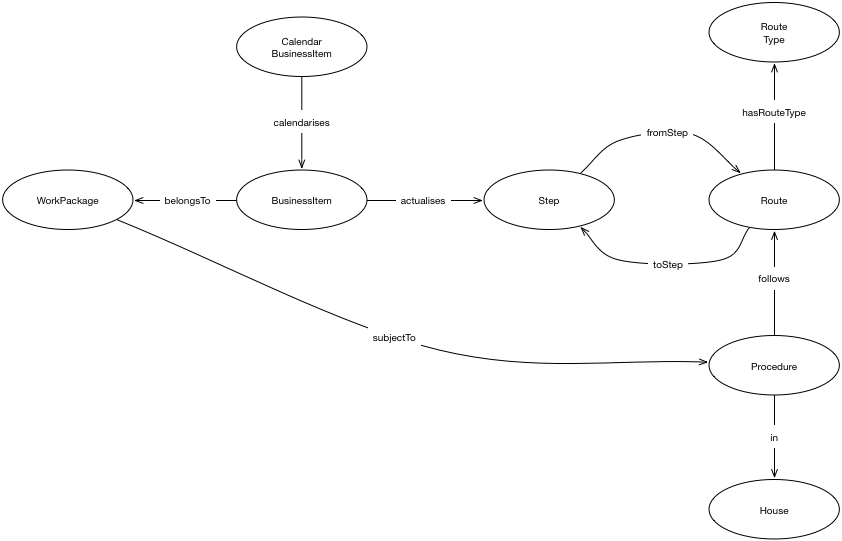
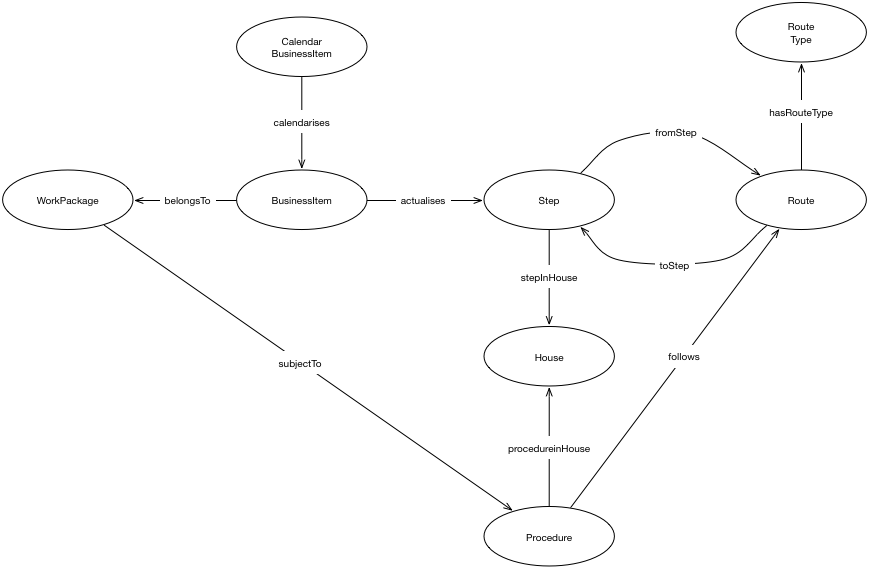
linked steps to houses

diff --git a/procedure/procedure-ontology.html b/procedure/procedure-ontology.html
@@ -9,7 +9,6 @@
 
 
 
-
 		<link href="https://ukparliament.github.io/ontologies/assets/css.css" rel="stylesheet" type="text/css" />
 	</head>
 		<body>
@@ -46,6 +45,18 @@
 
 
 
-<div id="classes"><h2>Classes</h2><ul class="hlist"><li><a href="#d4e162" title="http://parliament.uk/ontologies/procedure/BusinessItem">BusinessItem</a></li><li><a href="#d4e177" title="http://parliament.uk/ontologies/procedure/CalendarBusinessItem">CalendarBusinessItem</a></li><li><a href="#d4e188" title="http://parliament.uk/ontologies/procedure/House">House</a></li><li><a href="#d4e199" title="http://parliament.uk/ontologies/procedure/Procedure">Procedure</a></li><li><a href="#d4e211" title="http://parliament.uk/ontologies/procedure/Route">Route</a></li><li><a href="#d4e222" title="http://parliament.uk/ontologies/procedure/RouteType">RouteType</a></li><li><a href="#d4e233" title="http://parliament.uk/ontologies/procedure/Step">Step</a></li><li><a href="#d4e245" title="http://parliament.uk/ontologies/procedure/WorkPackage">WorkPackage</a></li></ul><div id="d4e162" class="entity"><a name="http://parliament.uk/ontologies/procedure/BusinessItem"></a><h3>BusinessItem<sup title="class" class="type-c">c</sup><span class="backlink"> back to <a href="#toc">ToC</a> or <a href="#classes">Class ToC</a></span></h3><p><strong>IRI:</strong> http://parliament.uk/ontologies/procedure/BusinessItem</p><div class="comment"><span class="markdown">An item of parliamentary business.</span></div><dl class="description"><dt>is in domain of</dt><dd><a href="#d4e22" title="http://parliament.uk/ontologies/procedure/actualises">actualises</a><sup title="object property" class="type-op">op</sup>, <a href="#d4e38" title="http://parliament.uk/ontologies/procedure/belongsTo">belongsTo</a><sup title="object property" class="type-op">op</sup></dd><dt>is in range of</dt><dd><a href="#d4e53" title="http://parliament.uk/ontologies/procedure/calendarises">calendarises</a><sup title="object property" class="type-op">op</sup></dd></dl></div><div id="d4e177" class="entity"><a name="http://parliament.uk/ontologies/procedure/CalendarBusinessItem"></a><h3>CalendarBusinessItem<sup title="class" class="type-c">c</sup><span class="backlink"> back to <a href="#toc">ToC</a> or <a href="#classes">Class ToC</a></span></h3><p><strong>IRI:</strong> http://parliament.uk/ontologies/procedure/CalendarBusinessItem</p><div class="comment"><span class="markdown">Handles the scheduling of a parliamentary business item once it has been timetabled into a calendar. The calendar business item only handles the timetabling of day, time and location and does not describe the nature of the business item.</span></div><dl class="description"><dt>is in domain of</dt><dd><a href="#d4e53" title="http://parliament.uk/ontologies/procedure/calendarises">calendarises</a><sup title="object property" class="type-op">op</sup></dd></dl></div><div id="d4e188" class="entity"><a name="http://parliament.uk/ontologies/procedure/House"></a><h3>House<sup title="class" class="type-c">c</sup><span class="backlink"> back to <a href="#toc">ToC</a> or <a href="#classes">Class ToC</a></span></h3><p><strong>IRI:</strong> http://parliament.uk/ontologies/procedure/House</p><div class="comment"><span class="markdown">A parliamentary House e.g. the House of Lords.</span></div><dl class="description"><dt>is in range of</dt><dd><a href="#d4e114" title="http://parliament.uk/ontologies/procedure/in">in</a><sup title="object property" class="type-op">op</sup></dd></dl></div><div id="d4e199" class="entity"><a name="http://parliament.uk/ontologies/procedure/Procedure"></a><h3>Procedure<sup title="class" class="type-c">c</sup><span class="backlink"> back to <a href="#toc">ToC</a> or <a href="#classes">Class ToC</a></span></h3><p><strong>IRI:</strong> http://parliament.uk/ontologies/procedure/Procedure</p><div class="comment"><span class="markdown">A parliamentary procedure in a particular House or Houses. An example might be the passage of a made affirmative statutory instrument in both Houses. Note that some procedures are House specific, but can involve things like a joint committee that cuts across the two Houses. In the latter case we consider it to be a single procedure.</span></div><dl class="description"><dt>is in domain of</dt><dd><a href="#d4e68" title="http://parliament.uk/ontologies/procedure/follows">follows</a><sup title="object property" class="type-op">op</sup>, <a href="#d4e114" title="http://parliament.uk/ontologies/procedure/in">in</a><sup title="object property" class="type-op">op</sup></dd><dt>is in range of</dt><dd><a href="#d4e130" title="http://parliament.uk/ontologies/procedure/subjectTo">subjectTo</a><sup title="object property" class="type-op">op</sup></dd></dl></div><div id="d4e211" class="entity"><a name="http://parliament.uk/ontologies/procedure/Route"></a><h3>Route<sup title="class" class="type-c">c</sup><span class="backlink"> back to <a href="#toc">ToC</a> or <a href="#classes">Class ToC</a></span></h3><p><strong>IRI:</strong> http://parliament.uk/ontologies/procedure/Route</p><div class="comment"><span class="markdown">Ties a procedural step or steps to the subsequent step, according to the RouteType. Note that routes are time bound (borrowing startOn and endOn from the Core Ontology). This allows routes to change over time and adapt to changes in procedure. A route is activated once the business item(s) which actualise the preceding steps are completed. This can be taken to mean the step is 'completed'. Note that the RouteType 'precludes' can route a completed step to the same step. This has the effect of precluding any more instances of that step in the procedure e.g. in the made affirmative statutory instrument procedure the step 'cleared by the Joint Committee on Statutory Instruments' can happen only once. In other words, the actualisation of this step as a business item precludes any other instance of that step.</span></div><dl class="description"><dt>is in domain of</dt><dd><a href="#d4e84" title="http://parliament.uk/ontologies/procedure/fromStep">fromStep</a><sup title="object property" class="type-op">op</sup>, <a href="#d4e99" title="http://parliament.uk/ontologies/procedure/hasRouteType">hasRouteType</a><sup title="object property" class="type-op">op</sup>, <a href="#d4e145" title="http://parliament.uk/ontologies/procedure/toStep">toStep</a><sup title="object property" class="type-op">op</sup></dd><dt>is in range of</dt><dd><a href="#d4e68" title="http://parliament.uk/ontologies/procedure/follows">follows</a><sup title="object property" class="type-op">op</sup></dd></dl></div><div id="d4e222" class="entity"><a name="http://parliament.uk/ontologies/procedure/RouteType"></a><h3>RouteType<sup title="class" class="type-c">c</sup><span class="backlink"> back to <a href="#toc">ToC</a> or <a href="#classes">Class ToC</a></span></h3><p><strong>IRI:</strong> http://parliament.uk/ontologies/procedure/RouteType</p><div class="comment"><span class="markdown">Route types are: causes, allows and precludes. A route of type 'causes' relates the route to a following step where completion of the preceding step(s) directly causes the route to trigger the next step i.e. the next step is inevitable. A route of type 'allows' relates the route to a following step where completion of the preceding step(s) allows the next step to happen, but does not cause it to happen i.e. the next step might happen but is not inevitable. A route of type 'precludes' relates a route to a step where completion of the preceding step(s) precludes that step from happening i.e. the next step can no longer happen.</span></div><dl class="description"><dt>is in range of</dt><dd><a href="#d4e99" title="http://parliament.uk/ontologies/procedure/hasRouteType">hasRouteType</a><sup title="object property" class="type-op">op</sup></dd></dl></div><div id="d4e233" class="entity"><a name="http://parliament.uk/ontologies/procedure/Step"></a><h3>Step<sup title="class" class="type-c">c</sup><span class="backlink"> back to <a href="#toc">ToC</a> or <a href="#classes">Class ToC</a></span></h3><p><strong>IRI:</strong> http://parliament.uk/ontologies/procedure/Step</p><div class="comment"><span class="markdown">A step in a procedure e.g. consideration of a statutory instrument by the Joint Committee on Statutory Instruments. Steps may not be unique to a specific procedure e.g. the consideration described in the previous example happens in both the affirmative and negative statutory instrument procedure.</span></div><dl class="description"><dt>is in range of</dt><dd><a href="#d4e22" title="http://parliament.uk/ontologies/procedure/actualises">actualises</a><sup title="object property" class="type-op">op</sup>, <a href="#d4e84" title="http://parliament.uk/ontologies/procedure/fromStep">fromStep</a><sup title="object property" class="type-op">op</sup>, <a href="#d4e145" title="http://parliament.uk/ontologies/procedure/toStep">toStep</a><sup title="object property" class="type-op">op</sup></dd></dl></div><div id="d4e245" class="entity"><a name="http://parliament.uk/ontologies/procedure/WorkPackage"></a><h3>WorkPackage<sup title="class" class="type-c">c</sup><span class="backlink"> back to <a href="#toc">ToC</a> or <a href="#classes">Class ToC</a></span></h3><p><strong>IRI:</strong> http://parliament.uk/ontologies/procedure/WorkPackage</p><div class="comment"><span class="markdown">A package of work grouping together many individual business items e.g. the passage of a specific statutory instrument, or the passage of a specific public bill etc. Whereas a procedure (and its accompanying routes and steps) describes the process, the work package handles the application of that process for a specific instance.</span></div><dl class="description"><dt>is in domain of</dt><dd><a href="#d4e130" title="http://parliament.uk/ontologies/procedure/subjectTo">subjectTo</a><sup title="object property" class="type-op">op</sup></dd><dt>is in range of</dt><dd><a href="#d4e38" title="http://parliament.uk/ontologies/procedure/belongsTo">belongsTo</a><sup title="object property" class="type-op">op</sup></dd></dl></div></div><div id="objectproperties"><h2>Object Properties</h2><ul class="hlist"><li><a href="#d4e22" title="http://parliament.uk/ontologies/procedure/actualises">actualises</a></li><li><a href="#d4e38" title="http://parliament.uk/ontologies/procedure/belongsTo">belongsTo</a></li><li><a href="#d4e53" title="http://parliament.uk/ontologies/procedure/calendarises">calendarises</a></li><li><a href="#d4e68" title="http://parliament.uk/ontologies/procedure/follows">follows</a></li><li><a href="#d4e84" title="http://parliament.uk/ontologies/procedure/fromStep">fromStep</a></li><li><a href="#d4e99" title="http://parliament.uk/ontologies/procedure/hasRouteType">hasRouteType</a></li><li><a href="#d4e114" title="http://parliament.uk/ontologies/procedure/in">in</a></li><li><a href="#d4e130" title="http://parliament.uk/ontologies/procedure/subjectTo">subjectTo</a></li><li><a href="#d4e145" title="http://parliament.uk/ontologies/procedure/toStep">toStep</a></li></ul><div id="d4e22" class="entity"><a name="http://parliament.uk/ontologies/procedure/actualises"></a><h3>actualises<sup title="object property" class="type-op">op</sup><span class="backlink"> back to <a href="#toc">ToC</a> or <a href="#objectproperties">Object Property ToC</a></span></h3><p><strong>IRI:</strong> http://parliament.uk/ontologies/procedure/actualises</p><div class="comment"><span class="markdown">Relates a business item to a step in a procedure (via a route) e.g. relates the second reading of a specific public bill to the corresponding (conceptual) step in the procedure. Note that whilst a step might be actualised by several business items (in different work packages), a business item might actualise one or several steps e.g. there might be a calendarised business item on the order paper that includes a debate on a number of motions. This would actualise steps relating each of those motions.</span></div><div class="description"><dl><dt>has domain</dt><dd><a href="#d4e162" title="http://parliament.uk/ontologies/procedure/BusinessItem">BusinessItem</a><sup title="class" class="type-c">c</sup></dd><dt>has range</dt><dd><a href="#d4e233" title="http://parliament.uk/ontologies/procedure/Step">Step</a><sup title="class" class="type-c">c</sup></dd></dl></div></div><div id="d4e38" class="entity"><a name="http://parliament.uk/ontologies/procedure/belongsTo"></a><h3>belongsTo<sup title="object property" class="type-op">op</sup><span class="backlink"> back to <a href="#toc">ToC</a> or <a href="#objectproperties">Object Property ToC</a></span></h3><p><strong>IRI:</strong> http://parliament.uk/ontologies/procedure/belongsTo</p><div class="comment"><span class="markdown">Relates an individual business item to the work package it is part of. Note that whilst a work package can contain many business items, a business item might relate to several work packages e.g. a meeting of the Joint Committee on Statutory Instruments might include business relating to many SI work packages with no distinct segmentation.</span></div><div class="description"><dl><dt>has domain</dt><dd><a href="#d4e162" title="http://parliament.uk/ontologies/procedure/BusinessItem">BusinessItem</a><sup title="class" class="type-c">c</sup></dd><dt>has range</dt><dd><a href="#d4e245" title="http://parliament.uk/ontologies/procedure/WorkPackage">WorkPackage</a><sup title="class" class="type-c">c</sup></dd></dl></div></div><div id="d4e53" class="entity"><a name="http://parliament.uk/ontologies/procedure/calendarises"></a><h3>calendarises<sup title="object property" class="type-op">op</sup><span class="backlink"> back to <a href="#toc">ToC</a> or <a href="#objectproperties">Object Property ToC</a></span></h3><p><strong>IRI:</strong> http://parliament.uk/ontologies/procedure/calendarises</p><div class="comment"><span class="markdown">Relates a calendar business item to a business item. Note that an individual business item can be calendarised into multiple calendar business items e.g. a second reading of a Bill might take place over several days.</span></div><div class="description"><dl><dt>has domain</dt><dd><a href="#d4e177" title="http://parliament.uk/ontologies/procedure/CalendarBusinessItem">CalendarBusinessItem</a><sup title="class" class="type-c">c</sup></dd><dt>has range</dt><dd><a href="#d4e162" title="http://parliament.uk/ontologies/procedure/BusinessItem">BusinessItem</a><sup title="class" class="type-c">c</sup></dd></dl></div></div><div id="d4e68" class="entity"><a name="http://parliament.uk/ontologies/procedure/follows"></a><h3>follows<sup title="object property" class="type-op">op</sup><span class="backlink"> back to <a href="#toc">ToC</a> or <a href="#objectproperties">Object Property ToC</a></span></h3><p><strong>IRI:</strong> http://parliament.uk/ontologies/procedure/follows</p><div class="comment"><span class="markdown">Relates a procedure to a route. A route can belong to only one procedure.</span></div><div class="description"><dl><dt>has domain</dt><dd><a href="#d4e199" title="http://parliament.uk/ontologies/procedure/Procedure">Procedure</a><sup title="class" class="type-c">c</sup></dd><dt>has range</dt><dd><a href="#d4e211" title="http://parliament.uk/ontologies/procedure/Route">Route</a><sup title="class" class="type-c">c</sup></dd></dl></div></div><div id="d4e84" class="entity"><a name="http://parliament.uk/ontologies/procedure/fromStep"></a><h3>fromStep<sup title="object property" class="type-op">op</sup><span class="backlink"> back to <a href="#toc">ToC</a> or <a href="#objectproperties">Object Property ToC</a></span></h3><p><strong>IRI:</strong> http://parliament.uk/ontologies/procedure/fromStep</p><div class="comment"><span class="markdown">Relates a route to a preceding step.</span></div><div class="description"><dl><dt>has domain</dt><dd><a href="#d4e211" title="http://parliament.uk/ontologies/procedure/Route">Route</a><sup title="class" class="type-c">c</sup></dd><dt>has range</dt><dd><a href="#d4e233" title="http://parliament.uk/ontologies/procedure/Step">Step</a><sup title="class" class="type-c">c</sup></dd></dl></div></div><div id="d4e99" class="entity"><a name="http://parliament.uk/ontologies/procedure/hasRouteType"></a><h3>hasRouteType<sup title="object property" class="type-op">op</sup><span class="backlink"> back to <a href="#toc">ToC</a> or <a href="#objectproperties">Object Property ToC</a></span></h3><p><strong>IRI:</strong> http://parliament.uk/ontologies/procedure/hasRouteType</p><div class="comment"><span class="markdown">Relates a route to a route type. A route can have one only type.</span></div><div class="description"><dl><dt>has domain</dt><dd><a href="#d4e211" title="http://parliament.uk/ontologies/procedure/Route">Route</a><sup title="class" class="type-c">c</sup></dd><dt>has range</dt><dd><a href="#d4e222" title="http://parliament.uk/ontologies/procedure/RouteType">RouteType</a><sup title="class" class="type-c">c</sup></dd></dl></div></div><div id="d4e114" class="entity"><a name="http://parliament.uk/ontologies/procedure/in"></a><h3>in<sup title="object property" class="type-op">op</sup><span class="backlink"> back to <a href="#toc">ToC</a> or <a href="#objectproperties">Object Property ToC</a></span></h3><p><strong>IRI:</strong> http://parliament.uk/ontologies/procedure/in</p><div class="comment"><span class="markdown">Relates a procedure to one or both Houses.</span></div><div class="description"><dl><dt>has domain</dt><dd><a href="#d4e199" title="http://parliament.uk/ontologies/procedure/Procedure">Procedure</a><sup title="class" class="type-c">c</sup></dd><dt>has range</dt><dd><a href="#d4e188" title="http://parliament.uk/ontologies/procedure/House">House</a><sup title="class" class="type-c">c</sup></dd></dl></div></div><div id="d4e130" class="entity"><a name="http://parliament.uk/ontologies/procedure/subjectTo"></a><h3>subjectTo<sup title="object property" class="type-op">op</sup><span class="backlink"> back to <a href="#toc">ToC</a> or <a href="#objectproperties">Object Property ToC</a></span></h3><p><strong>IRI:</strong> http://parliament.uk/ontologies/procedure/subjectTo</p><div class="comment"><span class="markdown">Relates a work package to the procedure it is subject to. A work package can only be subject to one procedure.</span></div><div class="description"><dl><dt>has domain</dt><dd><a href="#d4e245" title="http://parliament.uk/ontologies/procedure/WorkPackage">WorkPackage</a><sup title="class" class="type-c">c</sup></dd><dt>has range</dt><dd><a href="#d4e199" title="http://parliament.uk/ontologies/procedure/Procedure">Procedure</a><sup title="class" class="type-c">c</sup></dd></dl></div></div><div id="d4e145" class="entity"><a name="http://parliament.uk/ontologies/procedure/toStep"></a><h3>toStep<sup title="object property" class="type-op">op</sup><span class="backlink"> back to <a href="#toc">ToC</a> or <a href="#objectproperties">Object Property ToC</a></span></h3><p><strong>IRI:</strong> http://parliament.uk/ontologies/procedure/toStep</p><div class="comment"><span class="markdown">Relates a route to a potential following step. Note that the 'next' step might be precluded by the route type.</span></div><div class="description"><dl><dt>has domain</dt><dd><a href="#d4e211" title="http://parliament.uk/ontologies/procedure/Route">Route</a><sup title="class" class="type-c">c</sup></dd><dt>has range</dt><dd><a href="#d4e233" title="http://parliament.uk/ontologies/procedure/Step">Step</a><sup title="class" class="type-c">c</sup></dd></dl></div></div></div><div id="namespacedeclarations"><h2>Namespace Declarations <span class="backlink"> back to <a href="#toc">ToC</a></span></h2><dl><dt><em>default namespace</em></dt><dd>http://parliament.uk/ontologies/procedure/</dd><dt>owl</dt><dd>http://www.w3.org/2002/07/owl#</dd><dt>rdf</dt><dd>http://www.w3.org/1999/02/22-rdf-syntax-ns#</dd><dt>rdfs</dt><dd>http://www.w3.org/2000/01/rdf-schema#</dd><dt>terms</dt><dd>http://purl.org/dc/terms/</dd><dt>xsd</dt><dd>http://www.w3.org/2001/XMLSchema#</dd></dl></div><p class="endnote">This HTML document was obtained by processing the OWL ontology source code through <a href="http://www.essepuntato.it/lode">LODE</a>, <em>Live OWL Documentation Environment</em>, developed by <a href="http://www.essepuntato.it">Silvio Peroni</a>.</p></body></html>
+
+
+
+
+
+
+
+
+
+
+
+
+<div id="classes"><h2>Classes</h2><ul class="hlist"><li><a href="#d4e178" title="http://parliament.uk/ontologies/procedure/BusinessItem">BusinessItem</a></li><li><a href="#d4e192" title="http://parliament.uk/ontologies/procedure/CalendarBusinessItem">CalendarBusinessItem</a></li><li><a href="#d4e203" title="http://parliament.uk/ontologies/procedure/House">House</a></li><li><a href="#d4e215" title="http://parliament.uk/ontologies/procedure/Procedure">Procedure</a></li><li><a href="#d4e226" title="http://parliament.uk/ontologies/procedure/Route">Route</a></li><li><a href="#d4e237" title="http://parliament.uk/ontologies/procedure/RouteType">RouteType</a></li><li><a href="#d4e249" title="http://parliament.uk/ontologies/procedure/Step">Step</a></li><li><a href="#d4e260" title="http://parliament.uk/ontologies/procedure/WorkPackage">WorkPackage</a></li></ul><div id="d4e178" class="entity"><a name="http://parliament.uk/ontologies/procedure/BusinessItem"></a><h3>BusinessItem<sup title="class" class="type-c">c</sup><span class="backlink"> back to <a href="#toc">ToC</a> or <a href="#classes">Class ToC</a></span></h3><p><strong>IRI:</strong> http://parliament.uk/ontologies/procedure/BusinessItem</p><div class="comment"><span class="markdown">An item of parliamentary business.</span></div><dl class="description"><dt>is in domain of</dt><dd><a href="#d4e22" title="http://parliament.uk/ontologies/procedure/actualises">actualises</a><sup title="object property" class="type-op">op</sup>, <a href="#d4e38" title="http://parliament.uk/ontologies/procedure/belongsTo">belongsTo</a><sup title="object property" class="type-op">op</sup></dd><dt>is in range of</dt><dd><a href="#d4e53" title="http://parliament.uk/ontologies/procedure/calendarises">calendarises</a><sup title="object property" class="type-op">op</sup></dd></dl></div><div id="d4e192" class="entity"><a name="http://parliament.uk/ontologies/procedure/CalendarBusinessItem"></a><h3>CalendarBusinessItem<sup title="class" class="type-c">c</sup><span class="backlink"> back to <a href="#toc">ToC</a> or <a href="#classes">Class ToC</a></span></h3><p><strong>IRI:</strong> http://parliament.uk/ontologies/procedure/CalendarBusinessItem</p><div class="comment"><span class="markdown">Handles the scheduling of a parliamentary business item once it has been timetabled into a calendar. The calendar business item only handles the timetabling of day, time and location and does not describe the nature of the business item.</span></div><dl class="description"><dt>is in domain of</dt><dd><a href="#d4e53" title="http://parliament.uk/ontologies/procedure/calendarises">calendarises</a><sup title="object property" class="type-op">op</sup></dd></dl></div><div id="d4e203" class="entity"><a name="http://parliament.uk/ontologies/procedure/House"></a><h3>House<sup title="class" class="type-c">c</sup><span class="backlink"> back to <a href="#toc">ToC</a> or <a href="#classes">Class ToC</a></span></h3><p><strong>IRI:</strong> http://parliament.uk/ontologies/procedure/House</p><div class="comment"><span class="markdown">A parliamentary House e.g. the House of Lords.</span></div><dl class="description"><dt>is in range of</dt><dd><a href="#d4e114" title="http://parliament.uk/ontologies/procedure/procedureInHouse">procedureInHouse</a><sup title="object property" class="type-op">op</sup>, <a href="#d4e130" title="http://parliament.uk/ontologies/procedure/stepInHouse">stepInHouse</a><sup title="object property" class="type-op">op</sup></dd></dl></div><div id="d4e215" class="entity"><a name="http://parliament.uk/ontologies/procedure/Procedure"></a><h3>Procedure<sup title="class" class="type-c">c</sup><span class="backlink"> back to <a href="#toc">ToC</a> or <a href="#classes">Class ToC</a></span></h3><p><strong>IRI:</strong> http://parliament.uk/ontologies/procedure/Procedure</p><div class="comment"><span class="markdown">A parliamentary procedure in a particular House or Houses. An example might be the passage of a made affirmative statutory instrument in both Houses. Note that some procedures are House specific, but can involve things like a joint committee that cuts across the two Houses. In the latter case we consider it to be a single procedure.</span></div><dl class="description"><dt>is in domain of</dt><dd><a href="#d4e68" title="http://parliament.uk/ontologies/procedure/follows">follows</a><sup title="object property" class="type-op">op</sup>, <a href="#d4e114" title="http://parliament.uk/ontologies/procedure/procedureInHouse">procedureInHouse</a><sup title="object property" class="type-op">op</sup></dd><dt>is in range of</dt><dd><a href="#d4e145" title="http://parliament.uk/ontologies/procedure/subjectTo">subjectTo</a><sup title="object property" class="type-op">op</sup></dd></dl></div><div id="d4e226" class="entity"><a name="http://parliament.uk/ontologies/procedure/Route"></a><h3>Route<sup title="class" class="type-c">c</sup><span class="backlink"> back to <a href="#toc">ToC</a> or <a href="#classes">Class ToC</a></span></h3><p><strong>IRI:</strong> http://parliament.uk/ontologies/procedure/Route</p><div class="comment"><span class="markdown">Ties a procedural step or steps to the subsequent step, according to the RouteType. Note that routes are time bound (borrowing startOn and endOn from the Core Ontology). This allows routes to change over time and adapt to changes in procedure. A route is activated once the business item(s) which actualise the preceding steps are completed. This can be taken to mean the step is 'completed'. Note that the RouteType 'precludes' can route a completed step to the same step. This has the effect of precluding any more instances of that step in the procedure e.g. in the made affirmative statutory instrument procedure the step 'cleared by the Joint Committee on Statutory Instruments' can happen only once. In other words, the actualisation of this step as a business item precludes any other instance of that step.</span></div><dl class="description"><dt>is in domain of</dt><dd><a href="#d4e84" title="http://parliament.uk/ontologies/procedure/fromStep">fromStep</a><sup title="object property" class="type-op">op</sup>, <a href="#d4e99" title="http://parliament.uk/ontologies/procedure/hasRouteType">hasRouteType</a><sup title="object property" class="type-op">op</sup>, <a href="#d4e160" title="http://parliament.uk/ontologies/procedure/toStep">toStep</a><sup title="object property" class="type-op">op</sup></dd><dt>is in range of</dt><dd><a href="#d4e68" title="http://parliament.uk/ontologies/procedure/follows">follows</a><sup title="object property" class="type-op">op</sup></dd></dl></div><div id="d4e237" class="entity"><a name="http://parliament.uk/ontologies/procedure/RouteType"></a><h3>RouteType<sup title="class" class="type-c">c</sup><span class="backlink"> back to <a href="#toc">ToC</a> or <a href="#classes">Class ToC</a></span></h3><p><strong>IRI:</strong> http://parliament.uk/ontologies/procedure/RouteType</p><div class="comment"><span class="markdown">Route types are: causes, allows and precludes. A route of type 'causes' relates the route to a following step where completion of the preceding step(s) directly causes the route to trigger the next step i.e. the next step is inevitable. A route of type 'allows' relates the route to a following step where completion of the preceding step(s) allows the next step to happen, but does not cause it to happen i.e. the next step might happen but is not inevitable. A route of type 'precludes' relates a route to a step where completion of the preceding step(s) precludes that step from happening i.e. the next step can no longer happen.</span></div><dl class="description"><dt>is in range of</dt><dd><a href="#d4e99" title="http://parliament.uk/ontologies/procedure/hasRouteType">hasRouteType</a><sup title="object property" class="type-op">op</sup></dd></dl></div><div id="d4e249" class="entity"><a name="http://parliament.uk/ontologies/procedure/Step"></a><h3>Step<sup title="class" class="type-c">c</sup><span class="backlink"> back to <a href="#toc">ToC</a> or <a href="#classes">Class ToC</a></span></h3><p><strong>IRI:</strong> http://parliament.uk/ontologies/procedure/Step</p><div class="comment"><span class="markdown">A step in a procedure e.g. consideration of a statutory instrument by the Joint Committee on Statutory Instruments. Steps may not be unique to a specific procedure e.g. the consideration described in the previous example happens in both the affirmative and negative statutory instrument procedure.</span></div><dl class="description"><dt>is in domain of</dt><dd><a href="#d4e130" title="http://parliament.uk/ontologies/procedure/stepInHouse">stepInHouse</a><sup title="object property" class="type-op">op</sup></dd><dt>is in range of</dt><dd><a href="#d4e22" title="http://parliament.uk/ontologies/procedure/actualises">actualises</a><sup title="object property" class="type-op">op</sup>, <a href="#d4e84" title="http://parliament.uk/ontologies/procedure/fromStep">fromStep</a><sup title="object property" class="type-op">op</sup>, <a href="#d4e160" title="http://parliament.uk/ontologies/procedure/toStep">toStep</a><sup title="object property" class="type-op">op</sup></dd></dl></div><div id="d4e260" class="entity"><a name="http://parliament.uk/ontologies/procedure/WorkPackage"></a><h3>WorkPackage<sup title="class" class="type-c">c</sup><span class="backlink"> back to <a href="#toc">ToC</a> or <a href="#classes">Class ToC</a></span></h3><p><strong>IRI:</strong> http://parliament.uk/ontologies/procedure/WorkPackage</p><div class="comment"><span class="markdown">A package of work grouping together many individual business items e.g. the passage of a specific statutory instrument, or the passage of a specific public bill etc. Whereas a procedure (and its accompanying routes and steps) describes the process, the work package handles the application of that process for a specific instance.</span></div><dl class="description"><dt>is in domain of</dt><dd><a href="#d4e145" title="http://parliament.uk/ontologies/procedure/subjectTo">subjectTo</a><sup title="object property" class="type-op">op</sup></dd><dt>is in range of</dt><dd><a href="#d4e38" title="http://parliament.uk/ontologies/procedure/belongsTo">belongsTo</a><sup title="object property" class="type-op">op</sup></dd></dl></div></div><div id="objectproperties"><h2>Object Properties</h2><ul class="hlist"><li><a href="#d4e22" title="http://parliament.uk/ontologies/procedure/actualises">actualises</a></li><li><a href="#d4e38" title="http://parliament.uk/ontologies/procedure/belongsTo">belongsTo</a></li><li><a href="#d4e53" title="http://parliament.uk/ontologies/procedure/calendarises">calendarises</a></li><li><a href="#d4e68" title="http://parliament.uk/ontologies/procedure/follows">follows</a></li><li><a href="#d4e84" title="http://parliament.uk/ontologies/procedure/fromStep">fromStep</a></li><li><a href="#d4e99" title="http://parliament.uk/ontologies/procedure/hasRouteType">hasRouteType</a></li><li><a href="#d4e114" title="http://parliament.uk/ontologies/procedure/procedureInHouse">procedureInHouse</a></li><li><a href="#d4e130" title="http://parliament.uk/ontologies/procedure/stepInHouse">stepInHouse</a></li><li><a href="#d4e145" title="http://parliament.uk/ontologies/procedure/subjectTo">subjectTo</a></li><li><a href="#d4e160" title="http://parliament.uk/ontologies/procedure/toStep">toStep</a></li></ul><div id="d4e22" class="entity"><a name="http://parliament.uk/ontologies/procedure/actualises"></a><h3>actualises<sup title="object property" class="type-op">op</sup><span class="backlink"> back to <a href="#toc">ToC</a> or <a href="#objectproperties">Object Property ToC</a></span></h3><p><strong>IRI:</strong> http://parliament.uk/ontologies/procedure/actualises</p><div class="comment"><span class="markdown">Relates a business item to a step in a procedure (via a route) e.g. relates the second reading of a specific public bill to the corresponding (conceptual) step in the procedure. Note that whilst a step might be actualised by several business items (in different work packages), a business item might actualise one or several steps e.g. there might be a calendarised business item on the order paper that includes a debate on a number of motions. This would actualise steps relating each of those motions.</span></div><div class="description"><dl><dt>has domain</dt><dd><a href="#d4e178" title="http://parliament.uk/ontologies/procedure/BusinessItem">BusinessItem</a><sup title="class" class="type-c">c</sup></dd><dt>has range</dt><dd><a href="#d4e249" title="http://parliament.uk/ontologies/procedure/Step">Step</a><sup title="class" class="type-c">c</sup></dd></dl></div></div><div id="d4e38" class="entity"><a name="http://parliament.uk/ontologies/procedure/belongsTo"></a><h3>belongsTo<sup title="object property" class="type-op">op</sup><span class="backlink"> back to <a href="#toc">ToC</a> or <a href="#objectproperties">Object Property ToC</a></span></h3><p><strong>IRI:</strong> http://parliament.uk/ontologies/procedure/belongsTo</p><div class="comment"><span class="markdown">Relates an individual business item to the work package it is part of. Note that whilst a work package can contain many business items, a business item might relate to several work packages e.g. a meeting of the Joint Committee on Statutory Instruments might include business relating to many SI work packages with no distinct segmentation.</span></div><div class="description"><dl><dt>has domain</dt><dd><a href="#d4e178" title="http://parliament.uk/ontologies/procedure/BusinessItem">BusinessItem</a><sup title="class" class="type-c">c</sup></dd><dt>has range</dt><dd><a href="#d4e260" title="http://parliament.uk/ontologies/procedure/WorkPackage">WorkPackage</a><sup title="class" class="type-c">c</sup></dd></dl></div></div><div id="d4e53" class="entity"><a name="http://parliament.uk/ontologies/procedure/calendarises"></a><h3>calendarises<sup title="object property" class="type-op">op</sup><span class="backlink"> back to <a href="#toc">ToC</a> or <a href="#objectproperties">Object Property ToC</a></span></h3><p><strong>IRI:</strong> http://parliament.uk/ontologies/procedure/calendarises</p><div class="comment"><span class="markdown">Relates a calendar business item to a business item. Note that an individual business item can be calendarised into multiple calendar business items e.g. a second reading of a Bill might take place over several days.</span></div><div class="description"><dl><dt>has domain</dt><dd><a href="#d4e192" title="http://parliament.uk/ontologies/procedure/CalendarBusinessItem">CalendarBusinessItem</a><sup title="class" class="type-c">c</sup></dd><dt>has range</dt><dd><a href="#d4e178" title="http://parliament.uk/ontologies/procedure/BusinessItem">BusinessItem</a><sup title="class" class="type-c">c</sup></dd></dl></div></div><div id="d4e68" class="entity"><a name="http://parliament.uk/ontologies/procedure/follows"></a><h3>follows<sup title="object property" class="type-op">op</sup><span class="backlink"> back to <a href="#toc">ToC</a> or <a href="#objectproperties">Object Property ToC</a></span></h3><p><strong>IRI:</strong> http://parliament.uk/ontologies/procedure/follows</p><div class="comment"><span class="markdown">Relates a procedure to a route. A route can belong to only one procedure.</span></div><div class="description"><dl><dt>has domain</dt><dd><a href="#d4e215" title="http://parliament.uk/ontologies/procedure/Procedure">Procedure</a><sup title="class" class="type-c">c</sup></dd><dt>has range</dt><dd><a href="#d4e226" title="http://parliament.uk/ontologies/procedure/Route">Route</a><sup title="class" class="type-c">c</sup></dd></dl></div></div><div id="d4e84" class="entity"><a name="http://parliament.uk/ontologies/procedure/fromStep"></a><h3>fromStep<sup title="object property" class="type-op">op</sup><span class="backlink"> back to <a href="#toc">ToC</a> or <a href="#objectproperties">Object Property ToC</a></span></h3><p><strong>IRI:</strong> http://parliament.uk/ontologies/procedure/fromStep</p><div class="comment"><span class="markdown">Relates a route to a preceding step.</span></div><div class="description"><dl><dt>has domain</dt><dd><a href="#d4e226" title="http://parliament.uk/ontologies/procedure/Route">Route</a><sup title="class" class="type-c">c</sup></dd><dt>has range</dt><dd><a href="#d4e249" title="http://parliament.uk/ontologies/procedure/Step">Step</a><sup title="class" class="type-c">c</sup></dd></dl></div></div><div id="d4e99" class="entity"><a name="http://parliament.uk/ontologies/procedure/hasRouteType"></a><h3>hasRouteType<sup title="object property" class="type-op">op</sup><span class="backlink"> back to <a href="#toc">ToC</a> or <a href="#objectproperties">Object Property ToC</a></span></h3><p><strong>IRI:</strong> http://parliament.uk/ontologies/procedure/hasRouteType</p><div class="comment"><span class="markdown">Relates a route to a route type. A route can have one only type.</span></div><div class="description"><dl><dt>has domain</dt><dd><a href="#d4e226" title="http://parliament.uk/ontologies/procedure/Route">Route</a><sup title="class" class="type-c">c</sup></dd><dt>has range</dt><dd><a href="#d4e237" title="http://parliament.uk/ontologies/procedure/RouteType">RouteType</a><sup title="class" class="type-c">c</sup></dd></dl></div></div><div id="d4e114" class="entity"><a name="http://parliament.uk/ontologies/procedure/procedureInHouse"></a><h3>procedureInHouse<sup title="object property" class="type-op">op</sup><span class="backlink"> back to <a href="#toc">ToC</a> or <a href="#objectproperties">Object Property ToC</a></span></h3><p><strong>IRI:</strong> http://parliament.uk/ontologies/procedure/procedureInHouse</p><div class="comment"><span class="markdown">Relates a procedure to one or both Houses.</span></div><div class="description"><dl><dt>has domain</dt><dd><a href="#d4e215" title="http://parliament.uk/ontologies/procedure/Procedure">Procedure</a><sup title="class" class="type-c">c</sup></dd><dt>has range</dt><dd><a href="#d4e203" title="http://parliament.uk/ontologies/procedure/House">House</a><sup title="class" class="type-c">c</sup></dd></dl></div></div><div id="d4e130" class="entity"><a name="http://parliament.uk/ontologies/procedure/stepInHouse"></a><h3>stepInHouse<sup title="object property" class="type-op">op</sup><span class="backlink"> back to <a href="#toc">ToC</a> or <a href="#objectproperties">Object Property ToC</a></span></h3><p><strong>IRI:</strong> http://parliament.uk/ontologies/procedure/stepInHouse</p><div class="comment"><span class="markdown">Relates a step to one or both Houses.</span></div><div class="description"><dl><dt>has domain</dt><dd><a href="#d4e249" title="http://parliament.uk/ontologies/procedure/Step">Step</a><sup title="class" class="type-c">c</sup></dd><dt>has range</dt><dd><a href="#d4e203" title="http://parliament.uk/ontologies/procedure/House">House</a><sup title="class" class="type-c">c</sup></dd></dl></div></div><div id="d4e145" class="entity"><a name="http://parliament.uk/ontologies/procedure/subjectTo"></a><h3>subjectTo<sup title="object property" class="type-op">op</sup><span class="backlink"> back to <a href="#toc">ToC</a> or <a href="#objectproperties">Object Property ToC</a></span></h3><p><strong>IRI:</strong> http://parliament.uk/ontologies/procedure/subjectTo</p><div class="comment"><span class="markdown">Relates a work package to the procedure it is subject to. A work package can only be subject to one procedure.</span></div><div class="description"><dl><dt>has domain</dt><dd><a href="#d4e260" title="http://parliament.uk/ontologies/procedure/WorkPackage">WorkPackage</a><sup title="class" class="type-c">c</sup></dd><dt>has range</dt><dd><a href="#d4e215" title="http://parliament.uk/ontologies/procedure/Procedure">Procedure</a><sup title="class" class="type-c">c</sup></dd></dl></div></div><div id="d4e160" class="entity"><a name="http://parliament.uk/ontologies/procedure/toStep"></a><h3>toStep<sup title="object property" class="type-op">op</sup><span class="backlink"> back to <a href="#toc">ToC</a> or <a href="#objectproperties">Object Property ToC</a></span></h3><p><strong>IRI:</strong> http://parliament.uk/ontologies/procedure/toStep</p><div class="comment"><span class="markdown">Relates a route to a potential following step. Note that the 'next' step might be precluded by the route type.</span></div><div class="description"><dl><dt>has domain</dt><dd><a href="#d4e226" title="http://parliament.uk/ontologies/procedure/Route">Route</a><sup title="class" class="type-c">c</sup></dd><dt>has range</dt><dd><a href="#d4e249" title="http://parliament.uk/ontologies/procedure/Step">Step</a><sup title="class" class="type-c">c</sup></dd></dl></div></div></div><div id="namespacedeclarations"><h2>Namespace Declarations <span class="backlink"> back to <a href="#toc">ToC</a></span></h2><dl><dt><em>default namespace</em></dt><dd>http://parliament.uk/ontologies/procedure/</dd><dt>owl</dt><dd>http://www.w3.org/2002/07/owl#</dd><dt>rdf</dt><dd>http://www.w3.org/1999/02/22-rdf-syntax-ns#</dd><dt>rdfs</dt><dd>http://www.w3.org/2000/01/rdf-schema#</dd><dt>terms</dt><dd>http://purl.org/dc/terms/</dd><dt>xsd</dt><dd>http://www.w3.org/2001/XMLSchema#</dd></dl></div><p class="endnote">This HTML document was obtained by processing the OWL ontology source code through <a href="http://www.essepuntato.it/lode">LODE</a>, <em>Live OWL Documentation Environment</em>, developed by <a href="http://www.essepuntato.it">Silvio Peroni</a>.</p></body></html>
 
 
